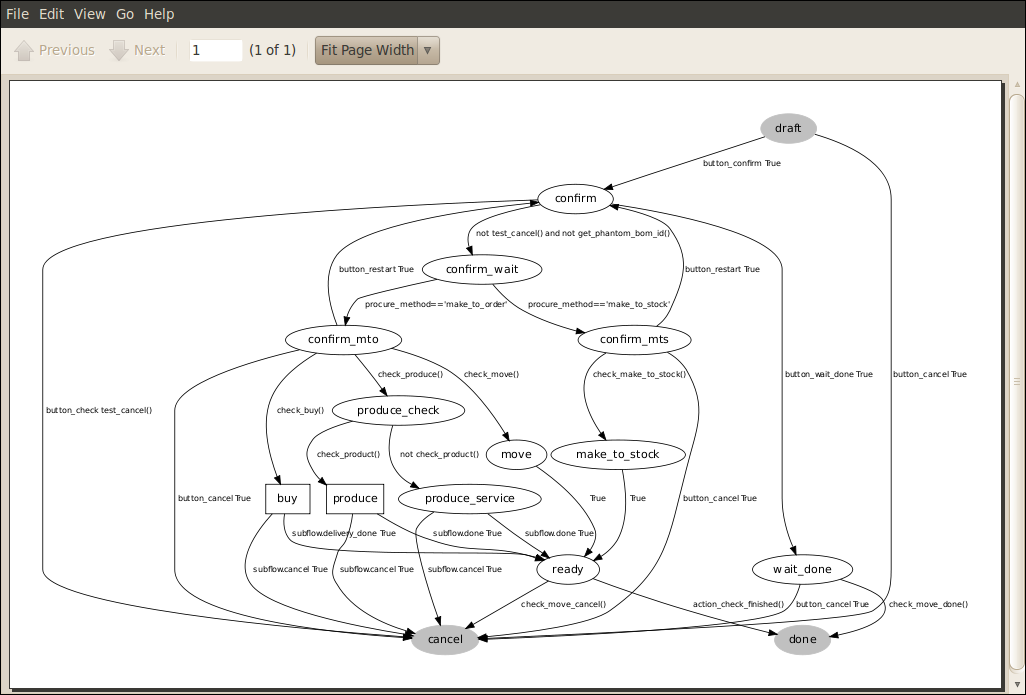
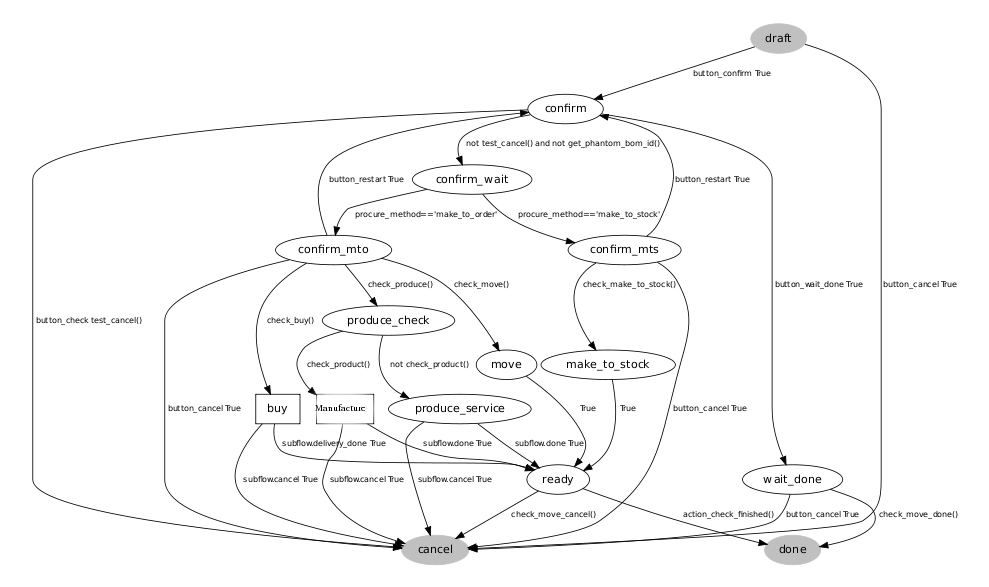
[IMP]:Modify 5_14_Stock_production.rst and screenshots

diff --git a/5/5_14_Stock/5_14_Stock_production.rst b/5/5_14_Stock/5_14_Stock_production.rst
@@ -5,26 +5,9 @@
 Scheduling Procurements
 =======================
 
-The master production plan, sometimes called the MPS (Master Production Schedule), enables you to
-generate forecasts for incoming and outgoing material. It is based on forecasts of inputs and outputs
-by the logistics manager.
+OpenERP distinguishes between Production, Purchase and Procurement.
 
-To be able to use the production plan, you must install the :mod:`stock_planning` module.
-
-
-.. note:: MPS, Procurement and Production
-
-   OpenERP distinguishes between Production, Purchase and Procurement.
-
-   Production is manufacturing, Purchase is the acquisition of goods from another party,
-   and Procurement is either one or both of those. So it would be better to call the
-   MPS the Master Procurement Schedule. Which OpenERP does!
-
-.. tip:: Product Trading
-
-    Also called the Production Plan, this tool is also very useful for traded products which are not
-    manufactured.
-    You can use it for stock management with purchased and manufactured products.
+Production is manufacturing, Purchase is the acquisition of goods from another party,  and Procurement is either one or both of those.
 
 Processing Exceptions
 ---------------------
@@ -37,21 +20,20 @@ order, a purchase order, a sales order and a task.
 
 If there should be configuration problems, the system can remain blocked by a procurement without
 generating a corresponding document. For example, suppose that you configure a product :guilabel:`Procurement Method`
-as ``Make to Order``, and :guilabel:`Supply Method` as ``Produce``, but you have not defined the bill of materials. In that case, procurement of the product will stay blocked in an exception state ``No Bill of Materials defined for this product``. You then have to create a bill of materials to solve the problem.
+as ``Make to Order``, and :guilabel:`Supply Method` as ``Manufacture``, but you have not defined the bill of materials. In that case, procurement of the product will stay blocked in an exception state ``No Bill of Materials defined for this product``. You then have to create a bill of materials to solve the problem.
 
 Troubleshooting:
 
 * No bill of materials defined for production: you need to create a BoM or indicate
   that the product can be purchased instead.
 
-* No supplier available for a purchase: you have to define a supplier in the `Supplier` tab
+* No supplier available for a purchase: you have to define a supplier in the `Procurements` tab
   of the product form.
 
 * No address defined on the supplier partner: you have to complete an address for the default supplier
   for the product concerned.
 
-* No quantity available in stock: you have to create a rule for automatic procurement (for example, a
-  minimum stock rule) and put it in the order, or manually procure it.
+* No quantity available in stock: you have to create a reordering rule and put it in the order, or manually procure it.
 
 Some problems are just those of timing and can be automatically corrected by the system.
 
@@ -100,112 +82,17 @@ has the following advantages:
 
 * The calculation of requirements prioritises the procurements. If you encode a purchase directly, you short-circuit the planning of different procurements.
 
-.. tip:: Shortcuts
+Request Procurements
+--------------------
 
-   On the product form you have an :guilabel:`ACTIONS` shortcut button :guilabel:`Create Procurements`
-   that lets you quickly create a new procurement order.
+On the product form you have an :guilabel:`Request Procurement` shortcut button that lets you quickly create a new procurement order.
 
-
-
-.. index::
-   single: module; stock_planning
-
-.. index:: forecasts
-
-Sales Forecasts
----------------
-
-The first thing you have to do to work with a production plan is define the periods for stock management.
-Some companies plan daily, others weekly or monthly.
-
-.. tip:: Stock Management Interval
-
-   The interval chosen for managing stock in the production plan will depend on the length of your
-   production cycle. You generally work daily, weekly or monthly.
-
-   If it takes several days to assemble your products, you most likely will define a weekly plan. If your
-   manufacturing cycles take several months, you can work with a monthly plan.
-   
-   To predefine these periods you can use the :menuselection:`Stock and Sales Planning Periods` that will automatically generate 
-   daily, weekly or monthly periods.
-   
-   .. _fig-stfore:
-
-   .. figure:: images/stock_sales_periods.png
-	  :scale: 75
-	  :align: center
-	  
-	  *Stock and Sales Planning Periods*
-
-Go to the menu :menuselection:`Sales --> Configuration --> Stock and Sales Periods -->
-Create Stock and Sales Periods`. A window appears enabling you to automatically define the next periods that will be
-provided for stock management. For this example, create weekly periods.
-
-.. figure:: images/sale_period.png
-   :scale: 75
+.. figure:: images/procurement_request.png
+   :scale: 65
    :align: center
 
-   *Defining Periods for Stock Management*
+   *Procurement Request*
 
-Salespeople can then enter their sales forecasts by product and by period using the menu
-:menuselection:`Sales --> Sales Forecasts --> Sales Forecasts`. The forecasts can be
-made by quantity or by value. For a forecast by amount, OpenERP automatically calculates the
-quantity equivalent to the estimated amount. This can be modified manually as needed before
-completion. A salesperson can create sales forecasts manually, or he can use the `Create Sales Forecasts` wizard in the above menu.
-
-.. figure:: images/stock_sale_forecast.png
-   :scale: 75
-   :align: center
-
-   *Sales Forecast to Help Create a Master Production Plan*
-
-.. index::
-   single: plan; production
-
-Production Plan
----------------
-
-The manager responsible for logistics then plans receipts (manufacturing or purchases) and outgoings
-(consumption or customer deliveries) by period. From the menu :menuselection:`Warehouse --> Stock Planning --> Create Stock Planning Lines`, you can create a stock planning per week for a specific product category. Through  :menuselection:`Warehouse --> Stock Planning --> Master Procurement Schedule` you can adjust the planning.
-
-For each period and product, OpenERP gives you the following information:
-
-* Stock estimated at the end of the period, calculated as stock in the following period less the total
-  estimated outgoings plus total estimated inputs,
-
-* Closed entries, coming from production or confirmed purchases,
-
-* Forecast inputs for the period, calculated using the incoming entries less the closing amounts,
-
-* Planned inputs entered manually by the logistics manager,
-
-* Closed outgoings which are the consumption of manufacturing waiting and deliveries to be made to
-  customers,
-
-* Forecast outgoings, calculated from the planned outgoings, less the closing amounts,
-
-* Planned outgoings, manually entered by the logistics manager,
-
-* Sales forecasts, which represent the sum of forecasts made by the salespeople.
-
-.. figure:: images/stock_forecast.png
-   :scale: 75
-   :align: center
-
-   *The Master Production Schedule (MPS)*
-
-The production plan enables the logistics manager to play with the forecast receipts and
-outgoings and test the impact on the future stock for the product concerned. It enables
-you, for example, to check that the stock does not fall below a certain level for that product.
-
-You can also open the production plan for past periods. In this case, OpenERP shows you the real
-stock moves, by period for forecast reports.
-
-If you do not have automated procurement rules for a product, you can start procurement at any time
-based on the estimates of the production plan.
-To do this, press the button :guilabel:`Procure Incoming Left` (i.e. remaining) on
-the :guilabel:`Master Procurement Schedule`.
-OpenERP plans procurement for an amount equal to the entries forecast.
 
 .. Copyright © Open Object Press. All rights reserved.
 
